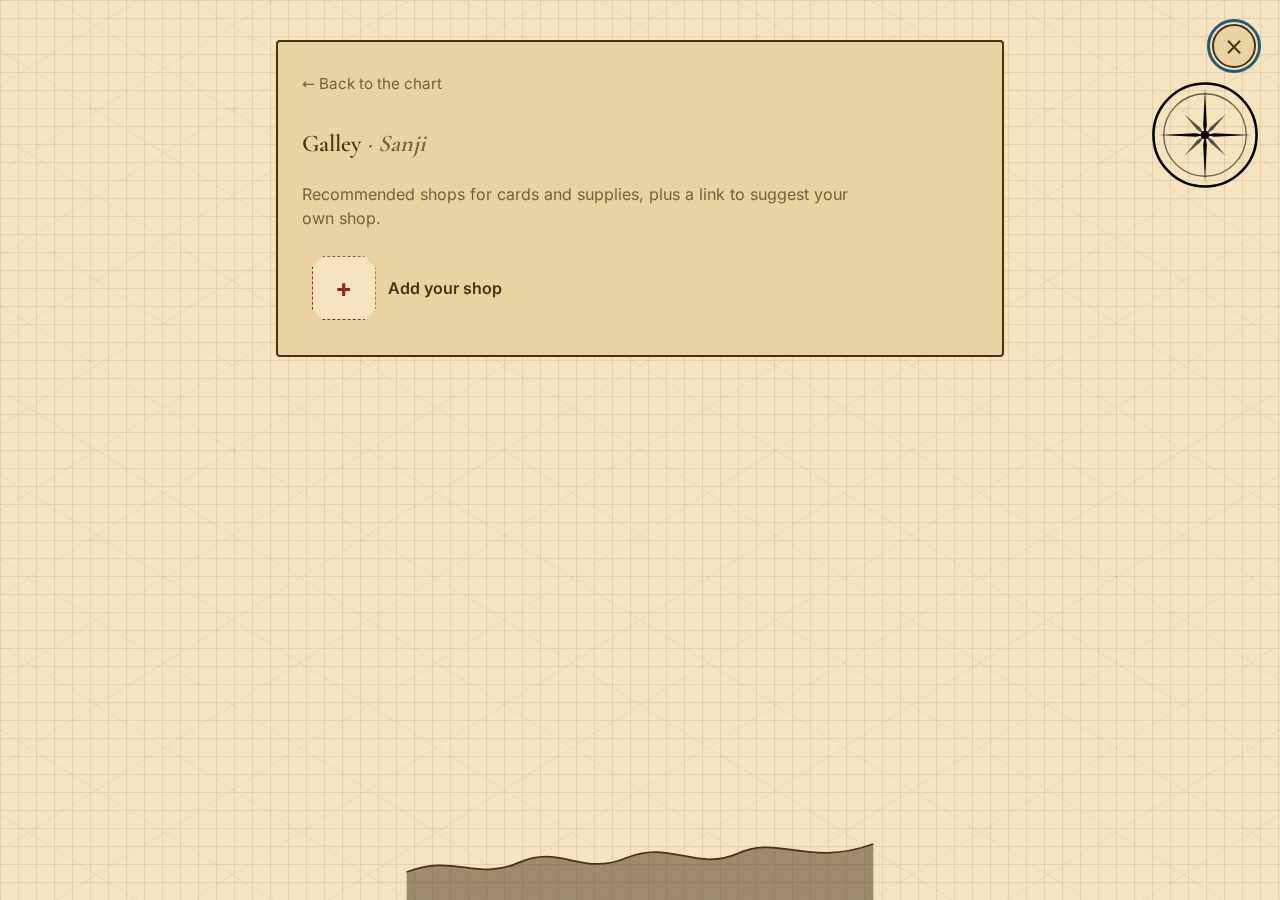
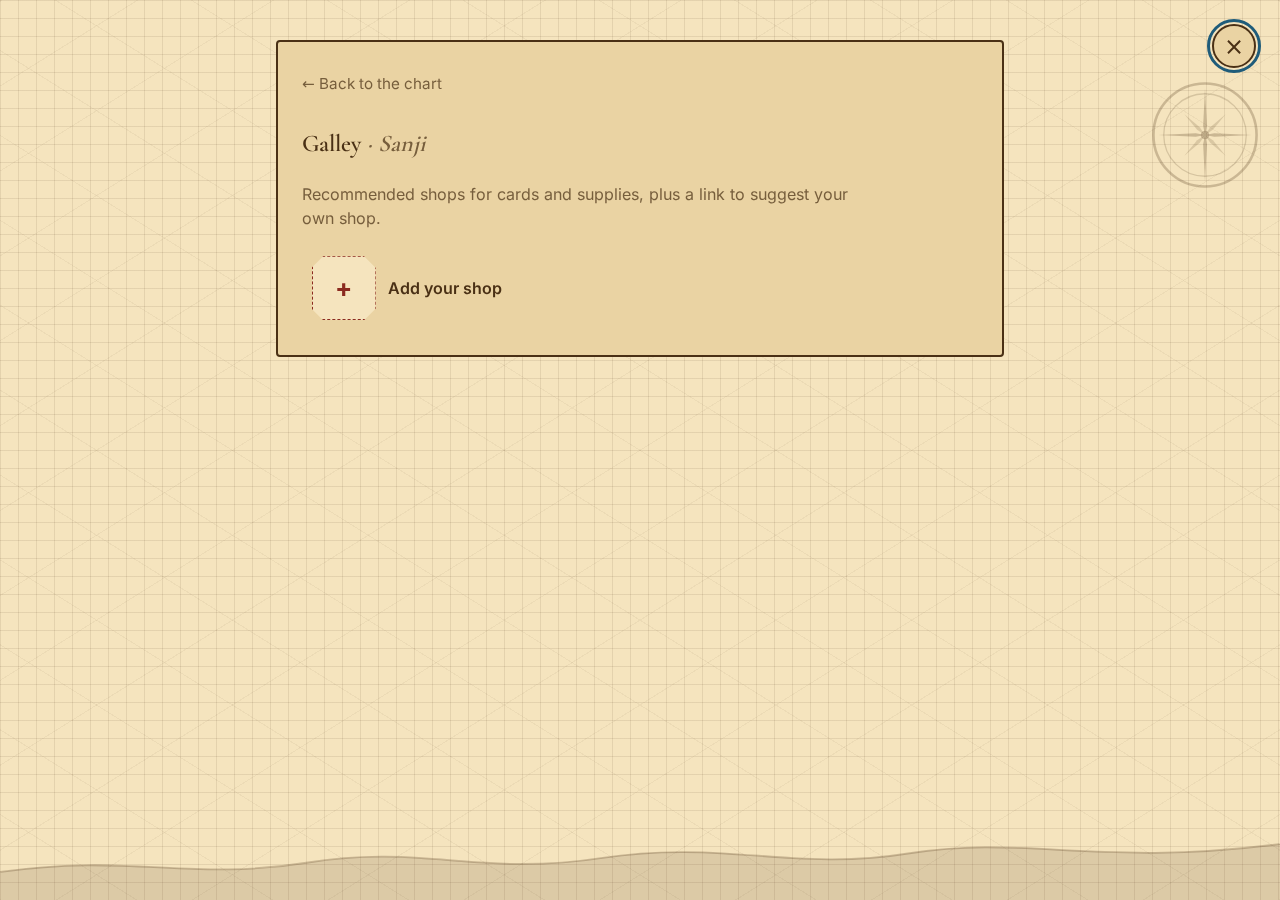
fix: pale overlay background assets and stop back button reopening folder (DIT-14)
Addresses DECK's review of PR #10:
- compass-rose.svg used `currentColor`, which resolves to black as a CSS
  background-image (no color context there) instead of inheriting ink like
  it does inline in the logo. Add compass-rose-pale.svg with the ink tone
  and opacity baked in, used only for the overlay background.
- coastline.svg was opaque (fill-opacity 0.5) and, since its viewBox aspect
  didn't match `background-size: 100% 140px`, was letterboxed to a dark
  strip instead of stretching full width. Lighten both fills/strokes and
  add preserveAspectRatio="none" so it fills the box.
- Closing the overlay used `history.pushState('#overview')`, leaving the
  just-closed room's entry intact underneath — pressing the back button
  landed back on it and reopened the folder. Use `history.replaceState`
  instead so the closed room's entry never stays reachable.

Changed region(s): [[0.0, 0.9333, 1.0, 1.0], [0.9062, 0.0933, 1.0, 0.2178]]

diff --git a/public/js/overlay.js b/public/js/overlay.js
@@ -129,8 +129,14 @@
     moveContentHome();
     dialog.removeAttribute('aria-labelledby');
 
+    // Replace (not push) the current entry: opening a room already added or
+    // reused a history entry for it (a folder click pushes one; a deep link
+    // is the page's own entry). Replacing that entry here, instead of
+    // pushing a new one on top, avoids leaving the closed room's entry
+    // reachable by the back button — pushing it is what previously made
+    // Back reopen the folder right after closing it.
     if (location.hash.slice(1) === openRoomId) {
-      history.pushState(null, '', '#overview');
+      history.replaceState(null, '', '#overview');
     }
     openRoomId = null;
 

diff --git a/public/css/style.css b/public/css/style.css
@@ -522,7 +522,7 @@ a {
     linear-gradient(90deg, var(--grid-line) 1px, transparent 1px),
     repeating-linear-gradient(32deg, rgba(74, 48, 21, 0.05) 0 1px, transparent 1px 72px),
     repeating-linear-gradient(-32deg, rgba(74, 48, 21, 0.05) 0 1px, transparent 1px 72px),
-    url("../assets/compass-rose.svg"),
+    url("../assets/compass-rose-pale.svg"),
     url("../assets/coastline.svg");
   background-repeat: repeat, repeat, repeat, repeat, no-repeat, no-repeat;
   background-size: 18px 18px, 18px 18px, auto, auto, 110px 110px, 100% 140px;
